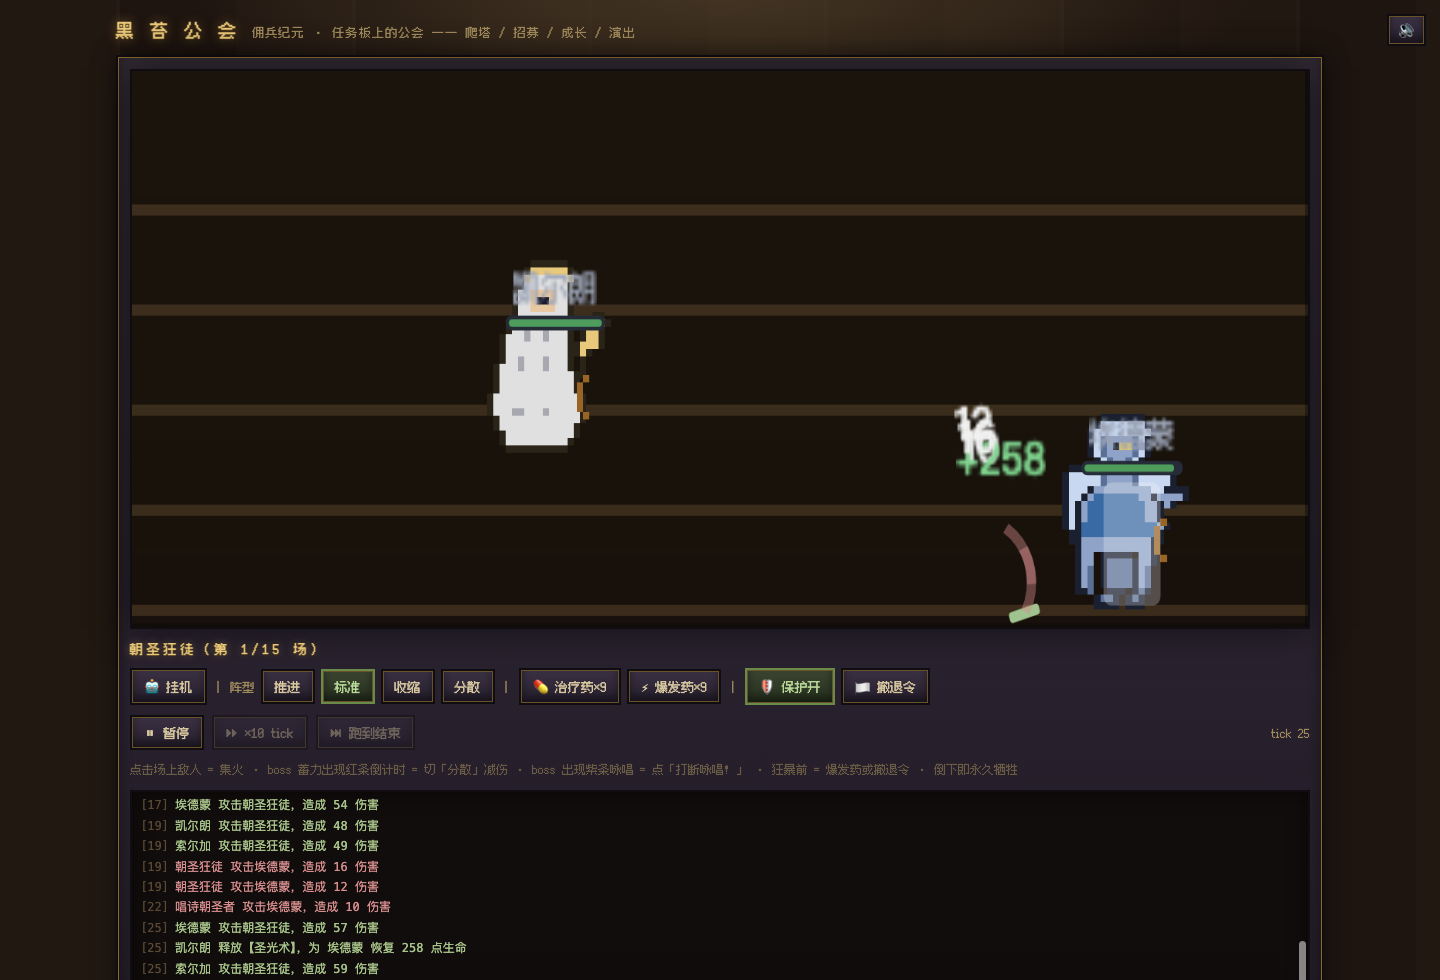
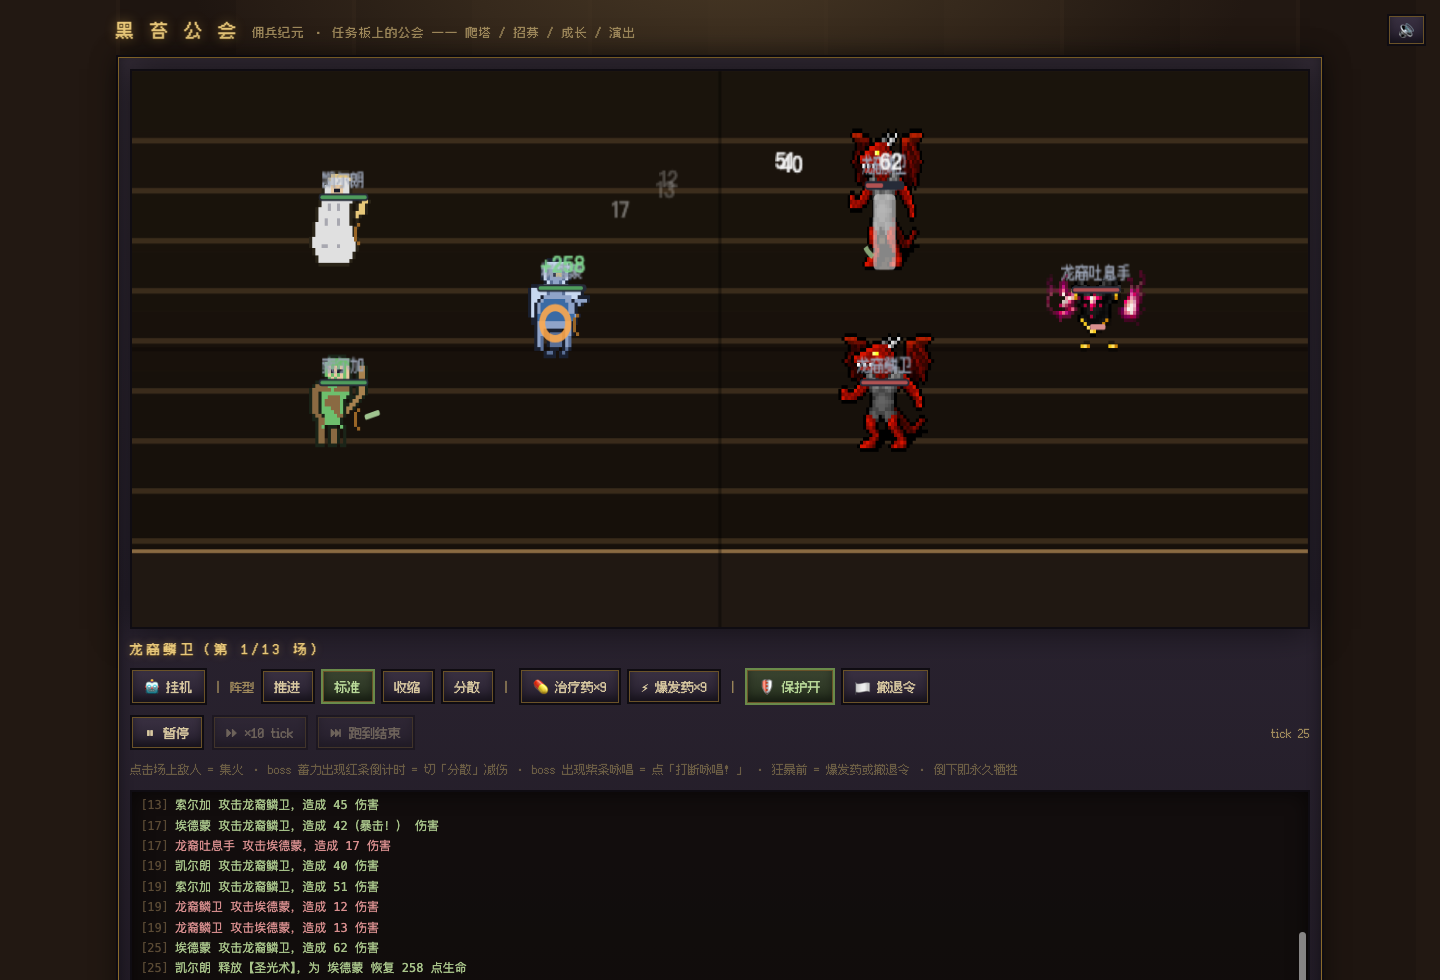
fix: 战斗cover填充修正(去掉多余x2,root缩放=容器/世界比,敌人区回到屏内)+shot-r2时序修复(waitText战斗开始)+敌怪spriteScale提3(DCSS帧人物占比小);烬石隘口实测截图验收(龙裔鳞卫红鳞龙人/朝圣狂徒紫袍秘术师/吐息手火焰环绕);37门禁绿

Changed region(s): [[0.0938, 0.1224, 0.9062, 0.6735], [0.0938, 0.7959, 0.3438, 1.0]]

diff --git a/src/ui/battle/BattleRenderer.ts b/src/ui/battle/BattleRenderer.ts
@@ -1,5 +1,5 @@
 import { Application, Container, Graphics, Rectangle, Sprite, Text, Texture } from 'pixi.js'
-import { pixelTexture, spriteKeyFor, spriteScale, spriteLayersFor, preloadUrlSprites } from './pixelSprites'
+import { pixelTexture, spriteKeyFor, spriteScale, spriteLayersFor, tryGetTex, preloadUrlSprites } from './pixelSprites'
 import { sfxHit, sfxCrit, sfxDeath, sfxTelegraph, sfxInterrupt, sfxGuard, sfxSlam, sfxEnrage } from '../audio'
 import type { BattleEvent, BattleState, Combatant } from '../../sim/types'
 import { TICK_MS } from '../../sim/combat'
@@ -63,6 +63,8 @@ class UnitView {
   bobPhase: number
   private weapon: Sprite | null = null
   private lastWeapon = ''
+  /** 素材帧待就绪替换:非空且 tryGetTex 命中时,替换占位纹理 */
+  texKey: string | null = null
   nameText: Text
   /** 单位被点击（指挥台：点击敌人 = 集火） */
   onClick?: (c: Combatant) => void
@@ -97,6 +99,7 @@ class UnitView {
       bodySprites.push(s)
     }
     const body = bodySprites[0]
+    if (!tryGetTex(bodyKey)) this.texKey = bodyKey // 占位中,加载完成后自愈替换
     this.bodyGroup = bodyGroup
     this.bodySprites = bodySprites
     this.body = body
@@ -231,7 +234,7 @@ export class BattleRenderer {
       const cw = Math.max(320, container.clientWidth || W * 2)
       const ch = Math.max(240, container.clientHeight || H * 2)
       this.app?.renderer.resize(cw, ch)
-      const s = Math.max(cw / W, ch / H) * 2
+      const s = Math.max(cw / W, ch / H)
       this.root.scale.set(s)
       this.root.position.set((cw - W * s) / 2, (ch - H * s) / 2)
     }
@@ -954,6 +957,16 @@ export class BattleRenderer {
     this.lastTickAt = performance.now()
     const k = 1 - Math.exp(-dt / 80)
     const nowT = performance.now()
+    // 素材帧自愈:预加载晚于单位创建时,占位纹理就绪后自动替换
+    for (const u of this.units.values()) {
+      if (u.texKey) {
+        const t = tryGetTex(u.texKey)
+        if (t) {
+          for (const s of u.bodySprites) s.texture = t
+          u.texKey = null
+        }
+      }
+    }
     for (const u of this.units.values()) {
       // 死亡单位永久退出回位插值：尸体留在倒下的地方，绝不拖拽滑动
       if (u.lockCount > 0 || !u.combatant.alive) continue

diff --git a/src/ui/battle/pixelSprites.ts b/src/ui/battle/pixelSprites.ts
@@ -534,12 +534,15 @@ export function spriteLayersFor(key: string): string[] | undefined {
 
 const cache = new Map<string, Texture>()
 
-/** 精灵显示缩放:素材包 32×32 与 HD 矩阵(≥20 行)原生 1:1;旧 12×14/16×18 矩阵保持 ×2 */
-export function spriteScale(key: string): number {
-  if (key.startsWith('mon-') || key.startsWith('/assets/')) return 2.4
-  const def = UNIT_SPRITES[key]
-  if (!def) return 2
+/** 精灵显示缩放:root ×2 后全部 ×2 显示(素材帧/HD/旧矩阵视觉尺寸统一) */
+export function spriteScale(_key: string): number {
   return 2
+}
+
+/** 纹理就绪探测(素材帧异步加载完成后由渲染层自愈替换;未就绪返回 undefined) */
+export function tryGetTex(key: string): Texture | undefined {
+  if (key.startsWith('mon-') || key.startsWith('/assets/')) return cache.get(key)
+  return undefined
 }
 
 /** ASCII 像素图 → nearest-neighbor 纹理(幂等,按 key 缓存;矩阵查 UNIT_SPRITES,素材/分层按 url 查缓存) */
